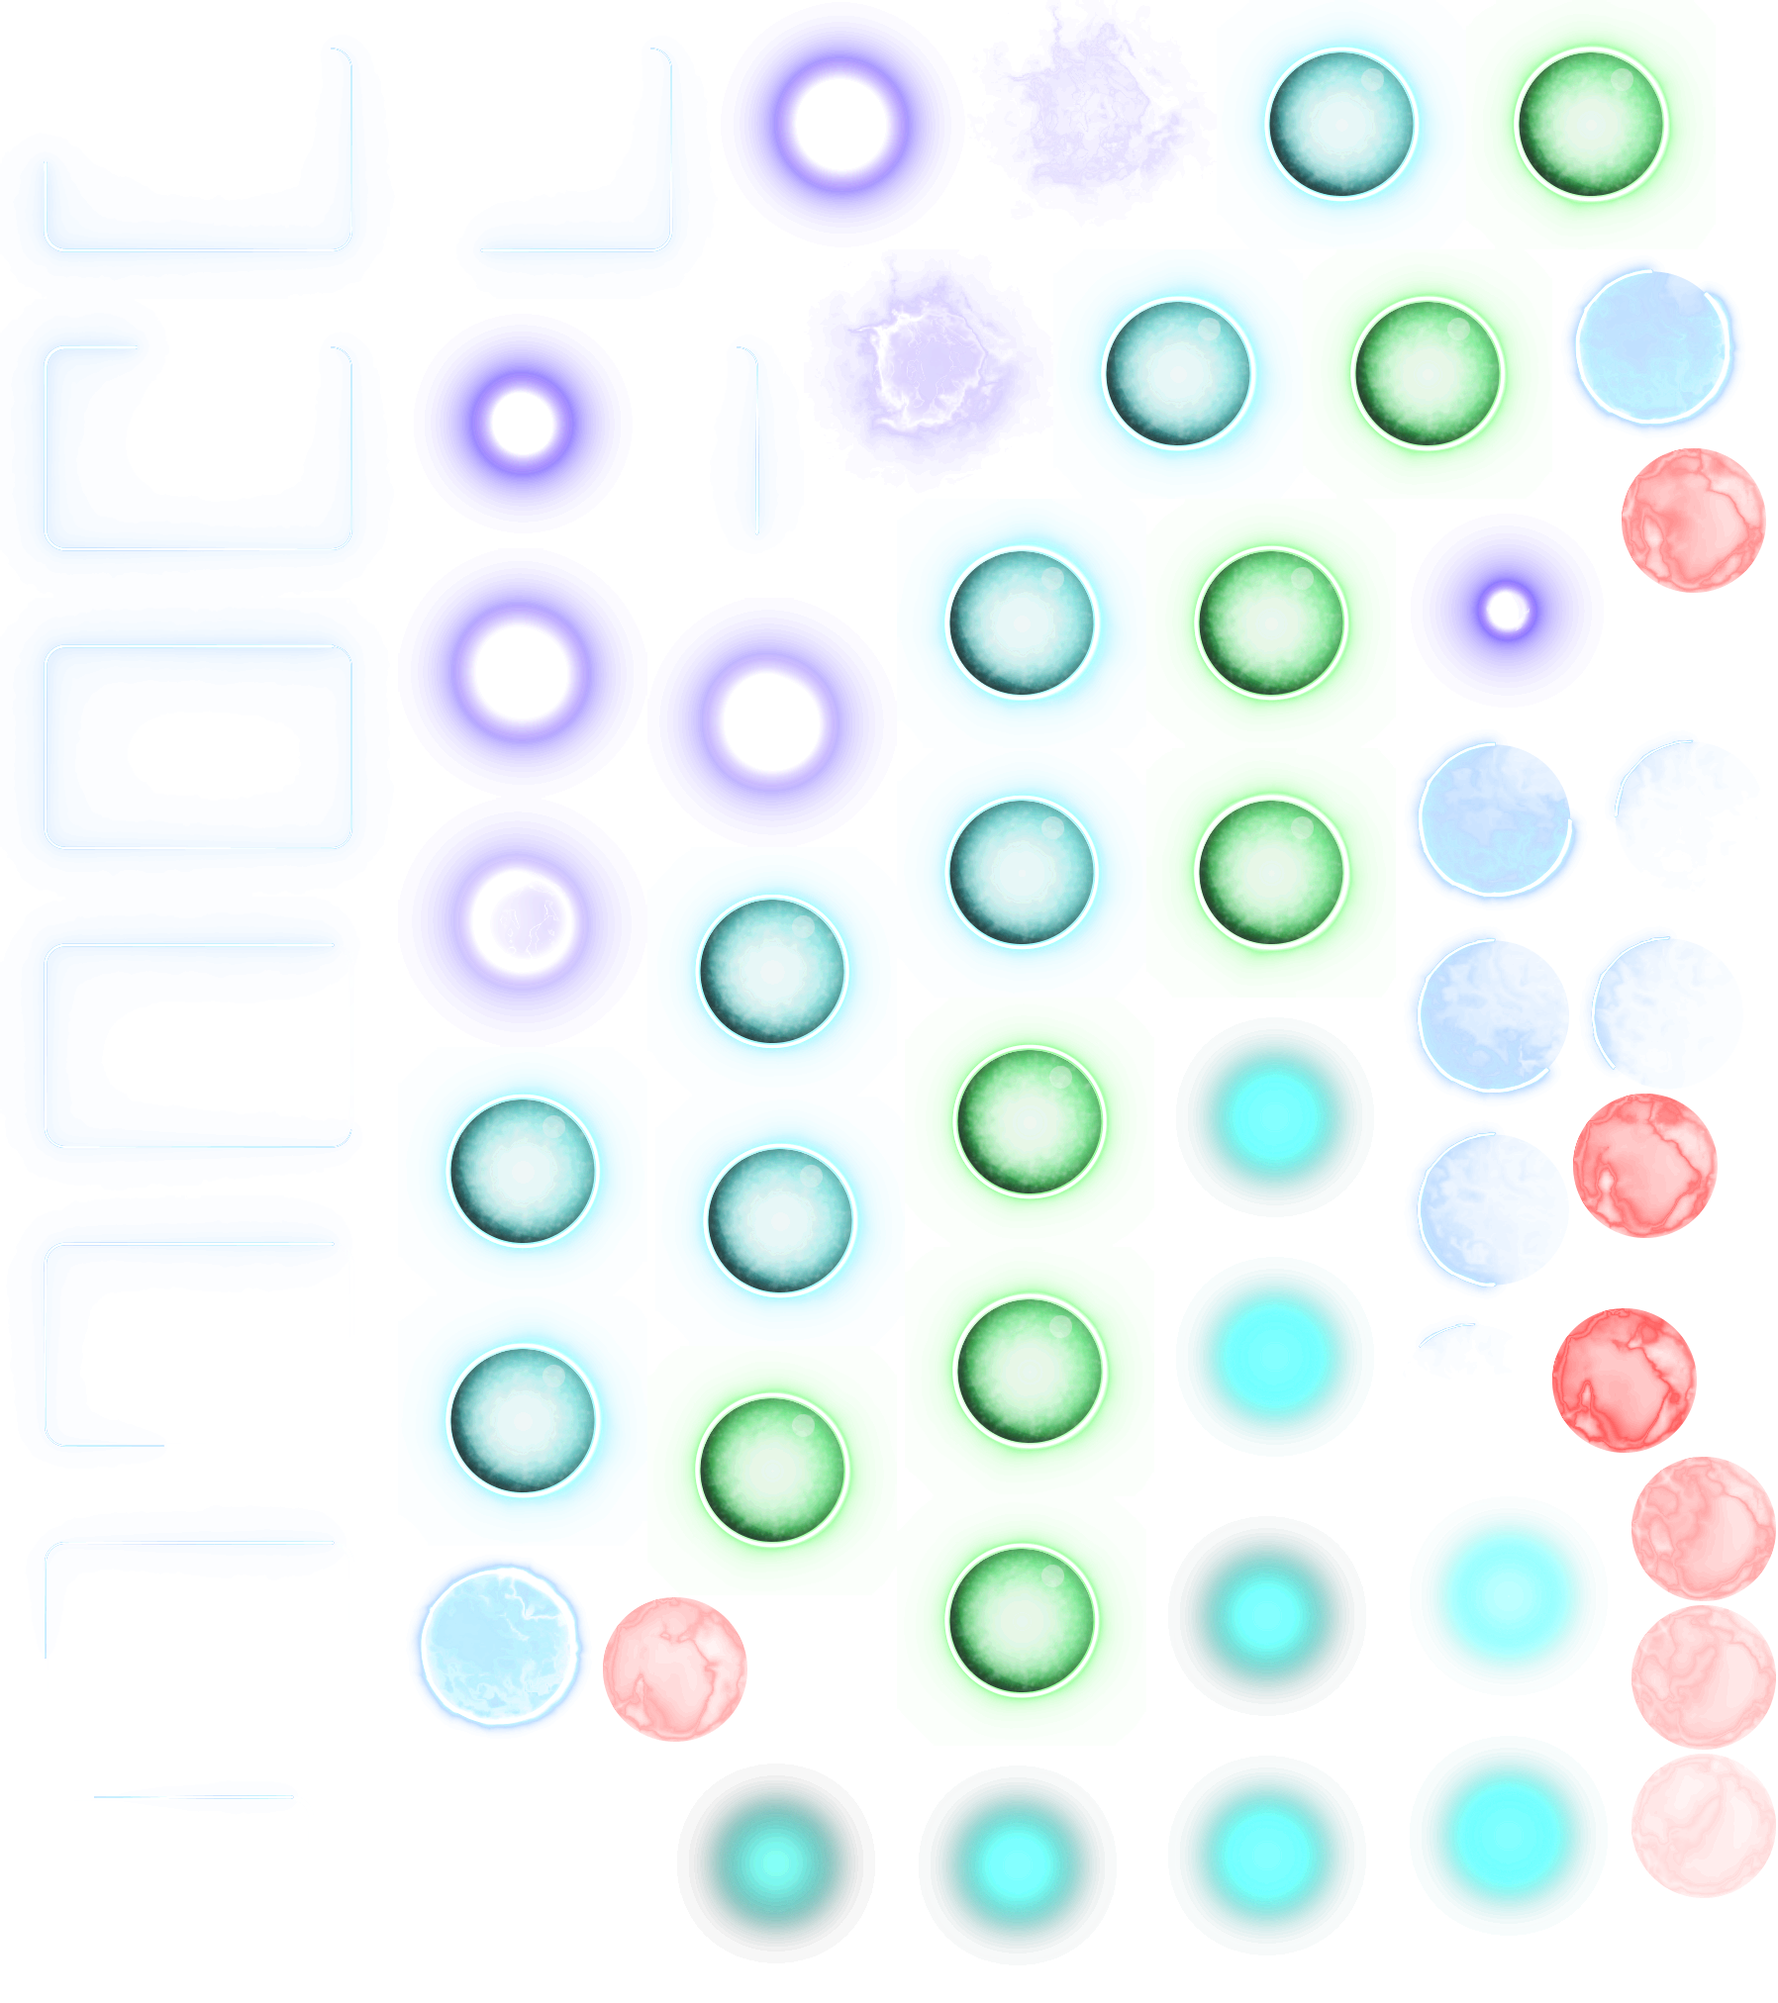
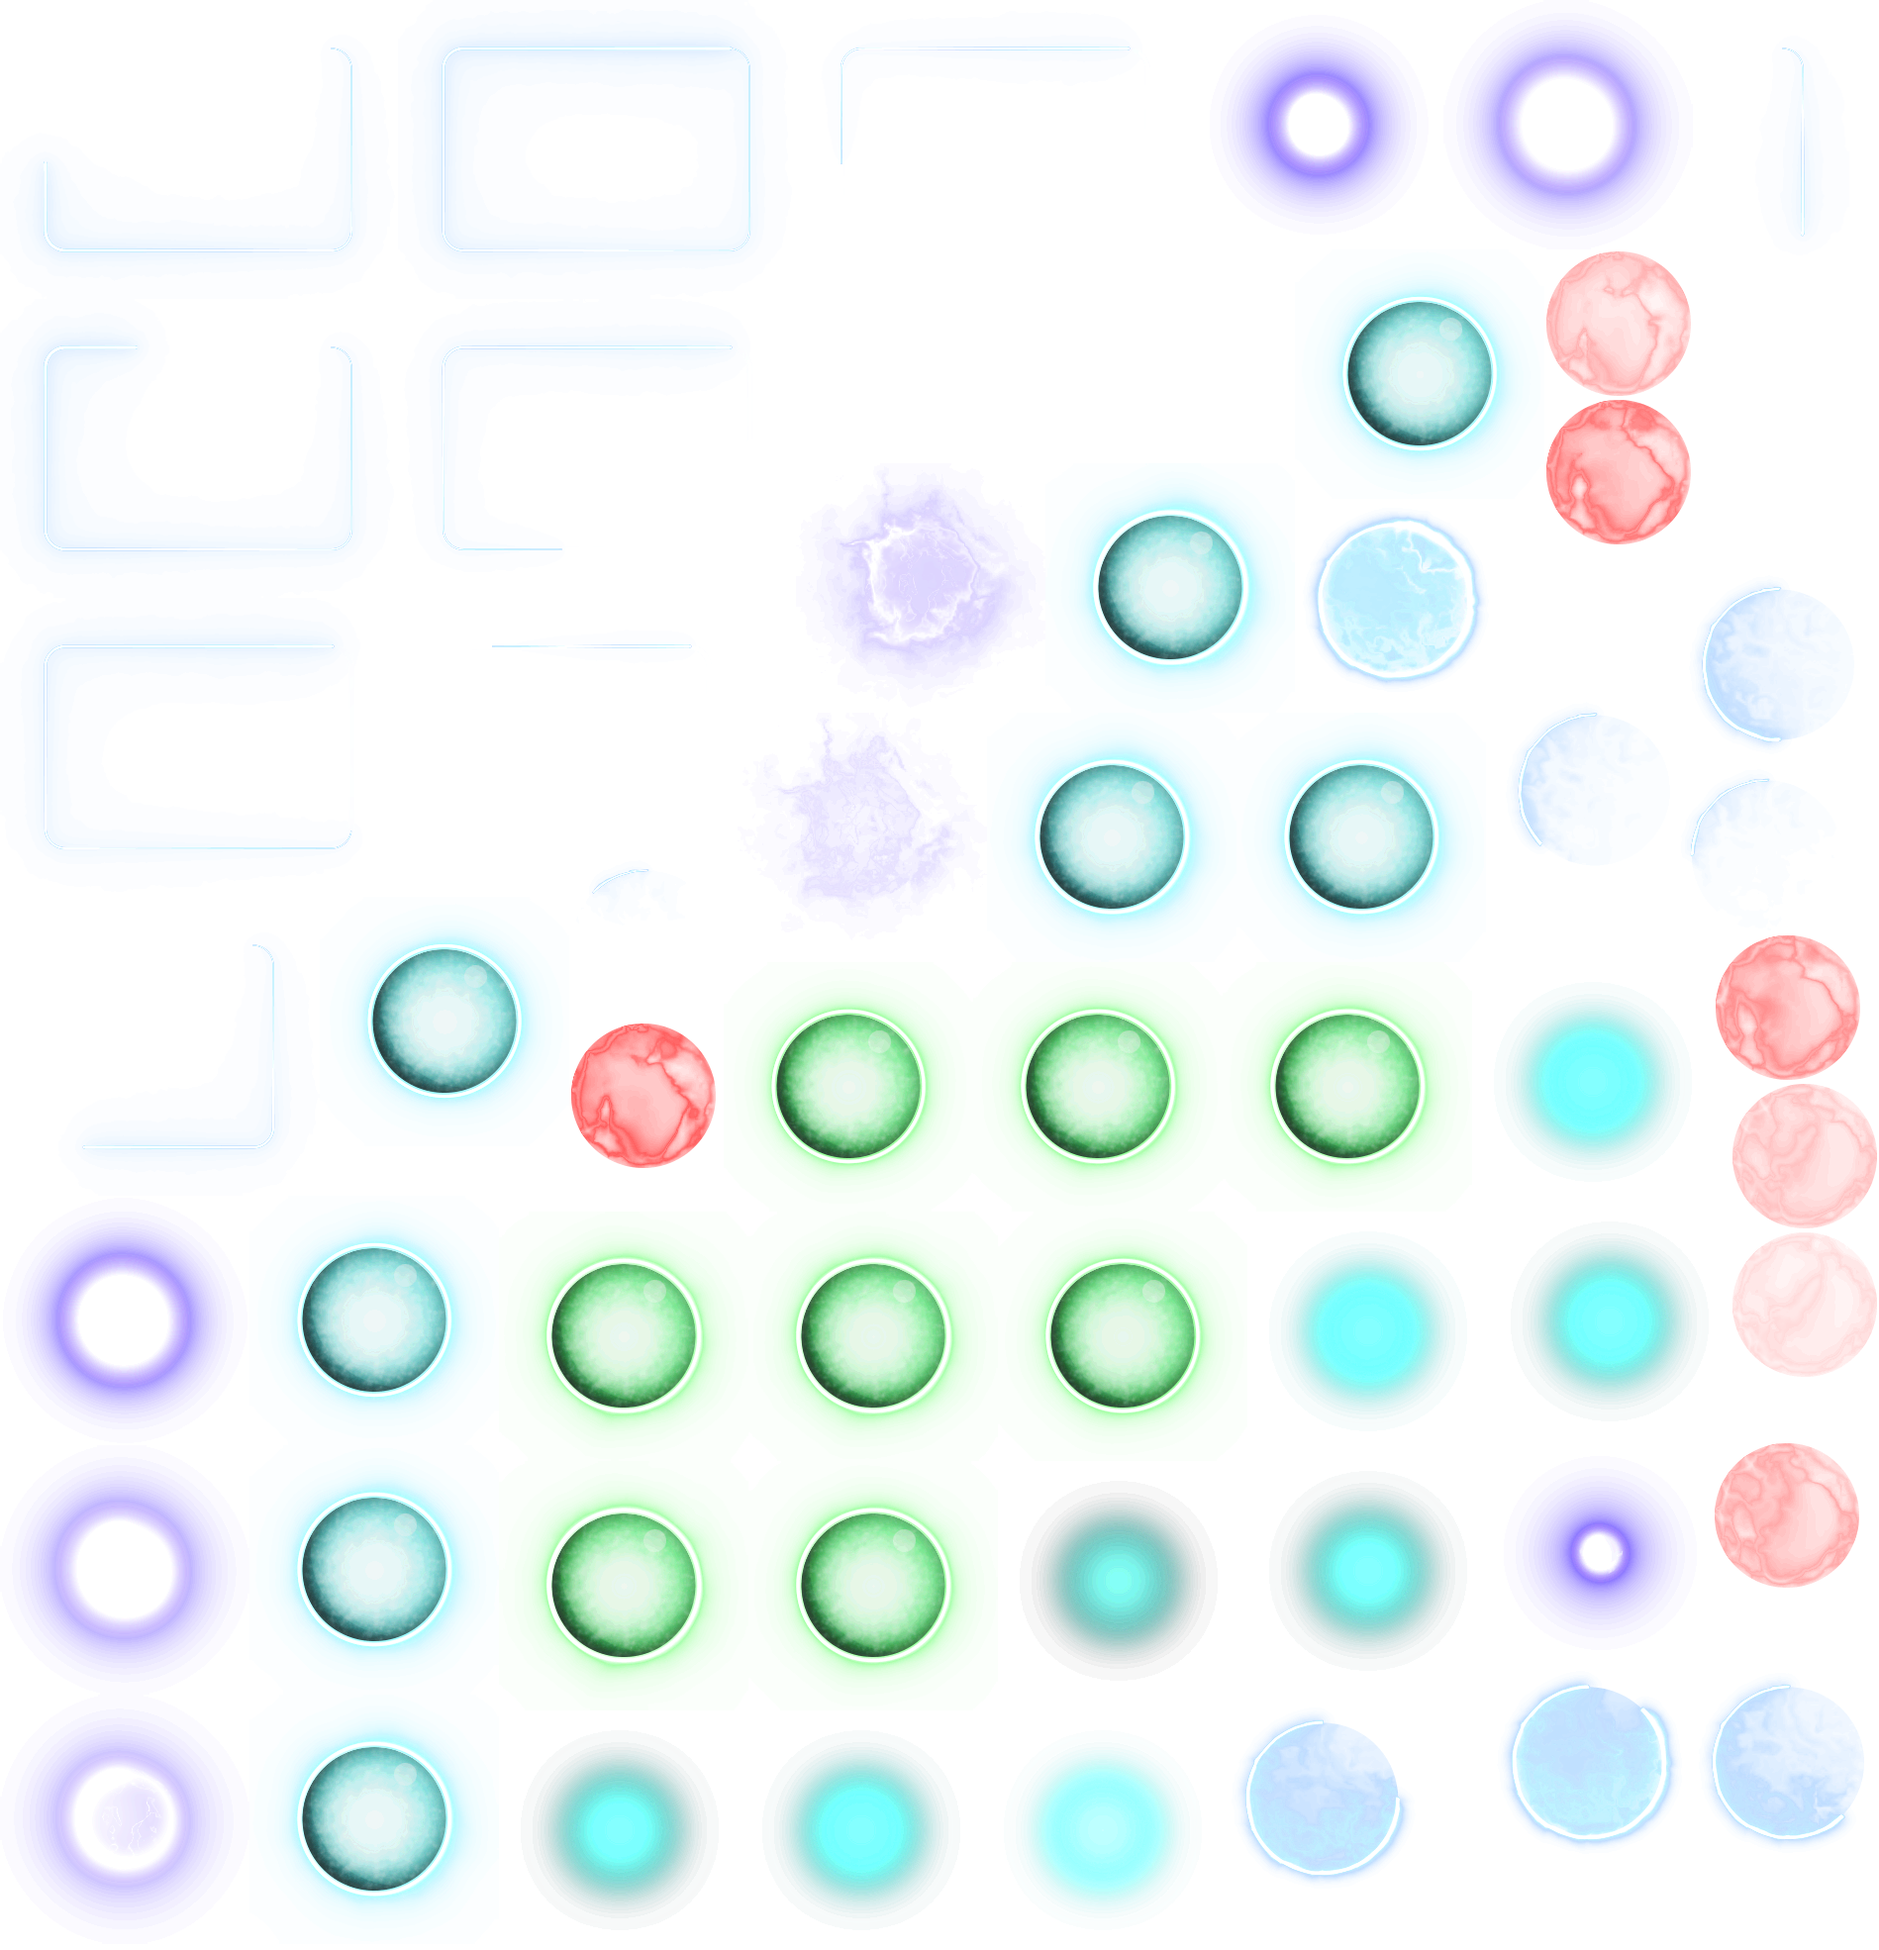
modify image

diff --git a/js/state3.js b/js/state3.js
@@ -69,10 +69,7 @@ demo.state3.prototype = {
         game.load.image('BG','assets/BG.jpg');
         game.load.image('correct_fx','assets/whiteBG.png');
         
-        game.load.spritesheet('fishbox_sheet_highlight','assets/fishingpage/fishbox_sheet_highlight.png',183,148);
-        
         //button--------------------------------------------------------------------------------------------------------
-        //game.load.image('getfishBG','assets/fishingpage/getfishboardBG.png');
         game.load.spritesheet('button_getfish_continue','assets/fishingpage/button_continue_sheet.png',134,82);
         game.load.spritesheet('button_getfish_backhome','assets/fishingpage/button_back_home_sheet.png',134,82);
         game.load.spritesheet('button_finish_sheet','assets/fishingpage/button_finish_sheet.png',134,82);
@@ -80,7 +77,6 @@ demo.state3.prototype = {
   
         game.load.image('mark_tutorial','assets/mark.png');
         //fx
-        game.load.spritesheet('tutorial_frame_sheet','assets/fishingpage/tutorial/tutorial_frame_sheet.png',400,300);
    
         game.load.audio('fishing', 'assets/audio/fishing.mp3');
         game.load.audio('rightFX', 'assets/audio/rightFX.mp3');
@@ -256,10 +252,10 @@ demo.state3.prototype = {
         fishbox_orange.anchor.setTo(0.5,0.5);
         fishbox_orange.scale.setTo(0,0);
         
-        fishbox_sheet_highlight = game.add.sprite(getfishboardX, getfishboardY, "fishbox_sheet_highlight");
+        fishbox_sheet_highlight = game.add.sprite(getfishboardX, getfishboardY,'fishingpage_sheet005');
         fishbox_sheet_highlight.anchor.setTo(0.5,0.5);
         fishbox_sheet_highlight.scale.setTo(0,0);
-        fishbox_sheet_highlight_animation = fishbox_sheet_highlight.animations.add("fishbox_sheet_highlight", [0,1,2,3,4,5,6,7]);
+        fishbox_sheet_highlight_animation = fishbox_sheet_highlight.animations.add("fishbox_sheet_highlight",Phaser.Animation.generateFrameNames('fishbox_highlight',1,8,'.png',4), 10, true);
         
         //open BG-----------------------------------------------------------------------------------------------------------------
         blackBG_open_fishing = game.add.sprite(0,0,"blackBG");
@@ -272,10 +268,10 @@ demo.state3.prototype = {
         correct_fx = game.add.sprite(0,0,'correct_fx');
         correct_fx.alpha = 0;
 
-        tutorial_frame_sheet = game.add.sprite(questionpositionX-440,questionpositionY+40,"tutorial_frame_sheet");
+        tutorial_frame_sheet = game.add.sprite(questionpositionX-440,questionpositionY+40,'fishingpage_sheet005');
         tutorial_frame_sheet.anchor.setTo(0.5,0.5);
         tutorial_frame_sheet.scale.setTo(0.9,0.9);
-        tutorial_frame_sheet.animations.add("tutorial_frame_sheet_dyn", [0,1,2,3,4,5,6,7,8,9]);
+        tutorial_frame_sheet.animations.add("tutorial_frame_sheet_dyn",Phaser.Animation.generateFrameNames('tutorial_frame_',1,10,'.png',5), 10, true);
         tutorial_frame_sheet.alpha = 0;
 
         //--------------------------------------------------------------------------------------------------------------------------
